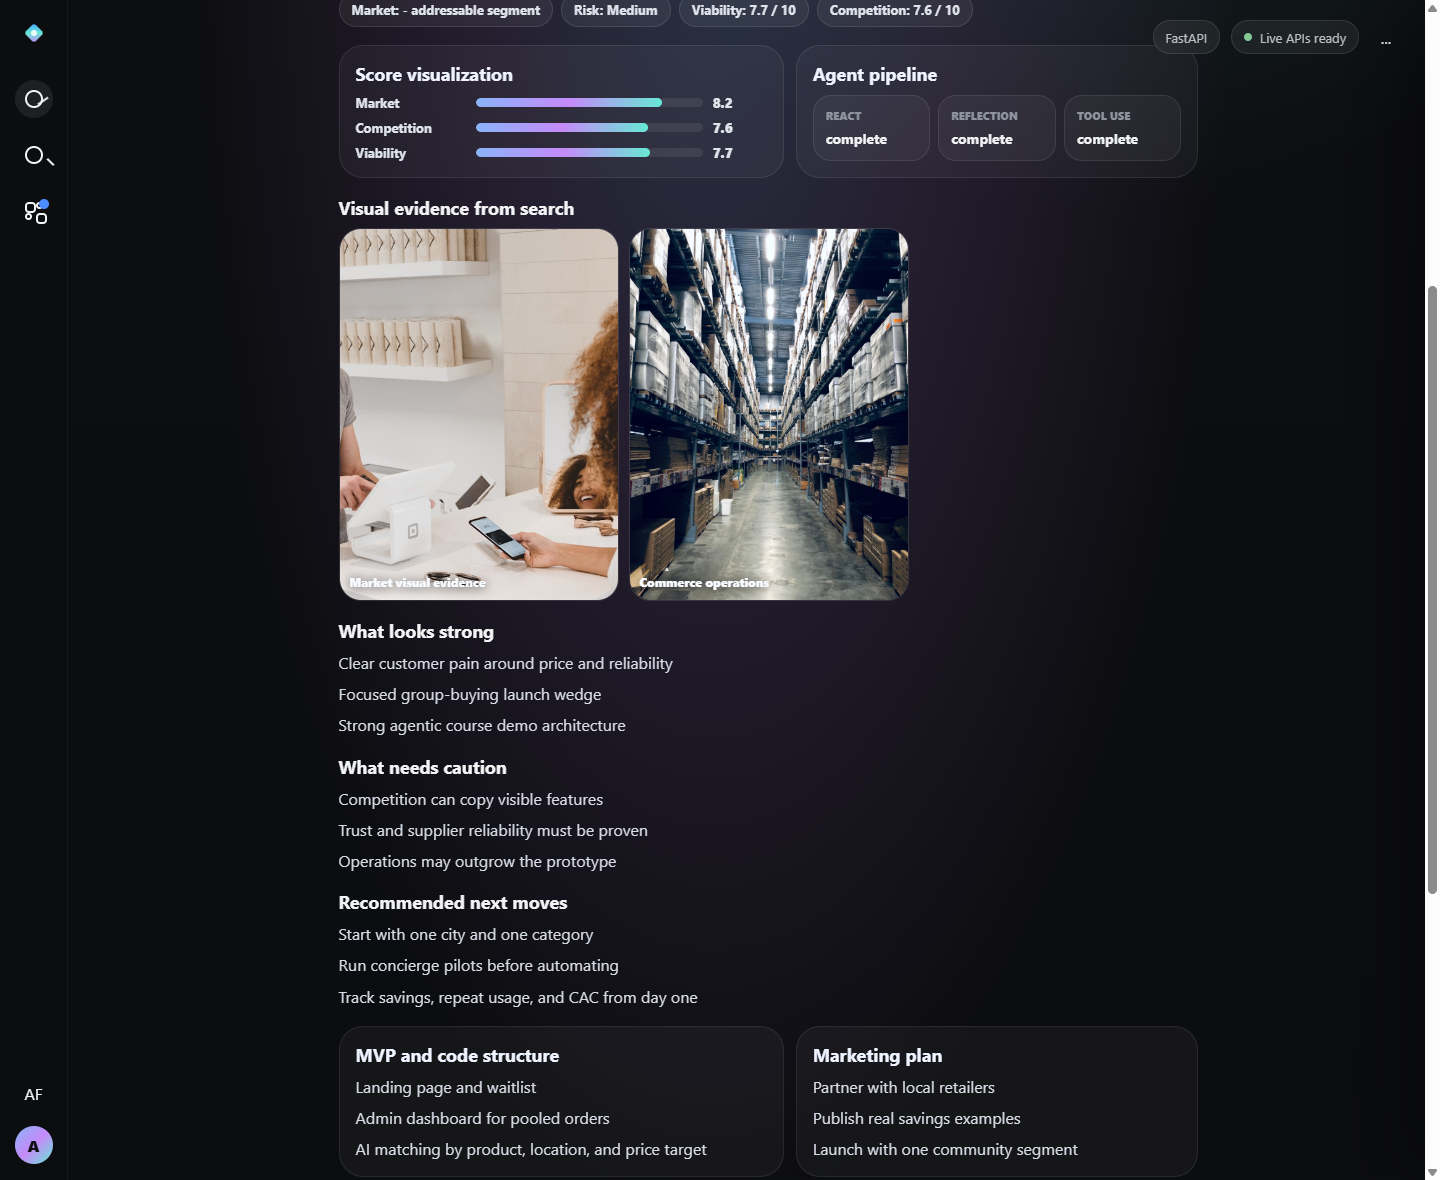
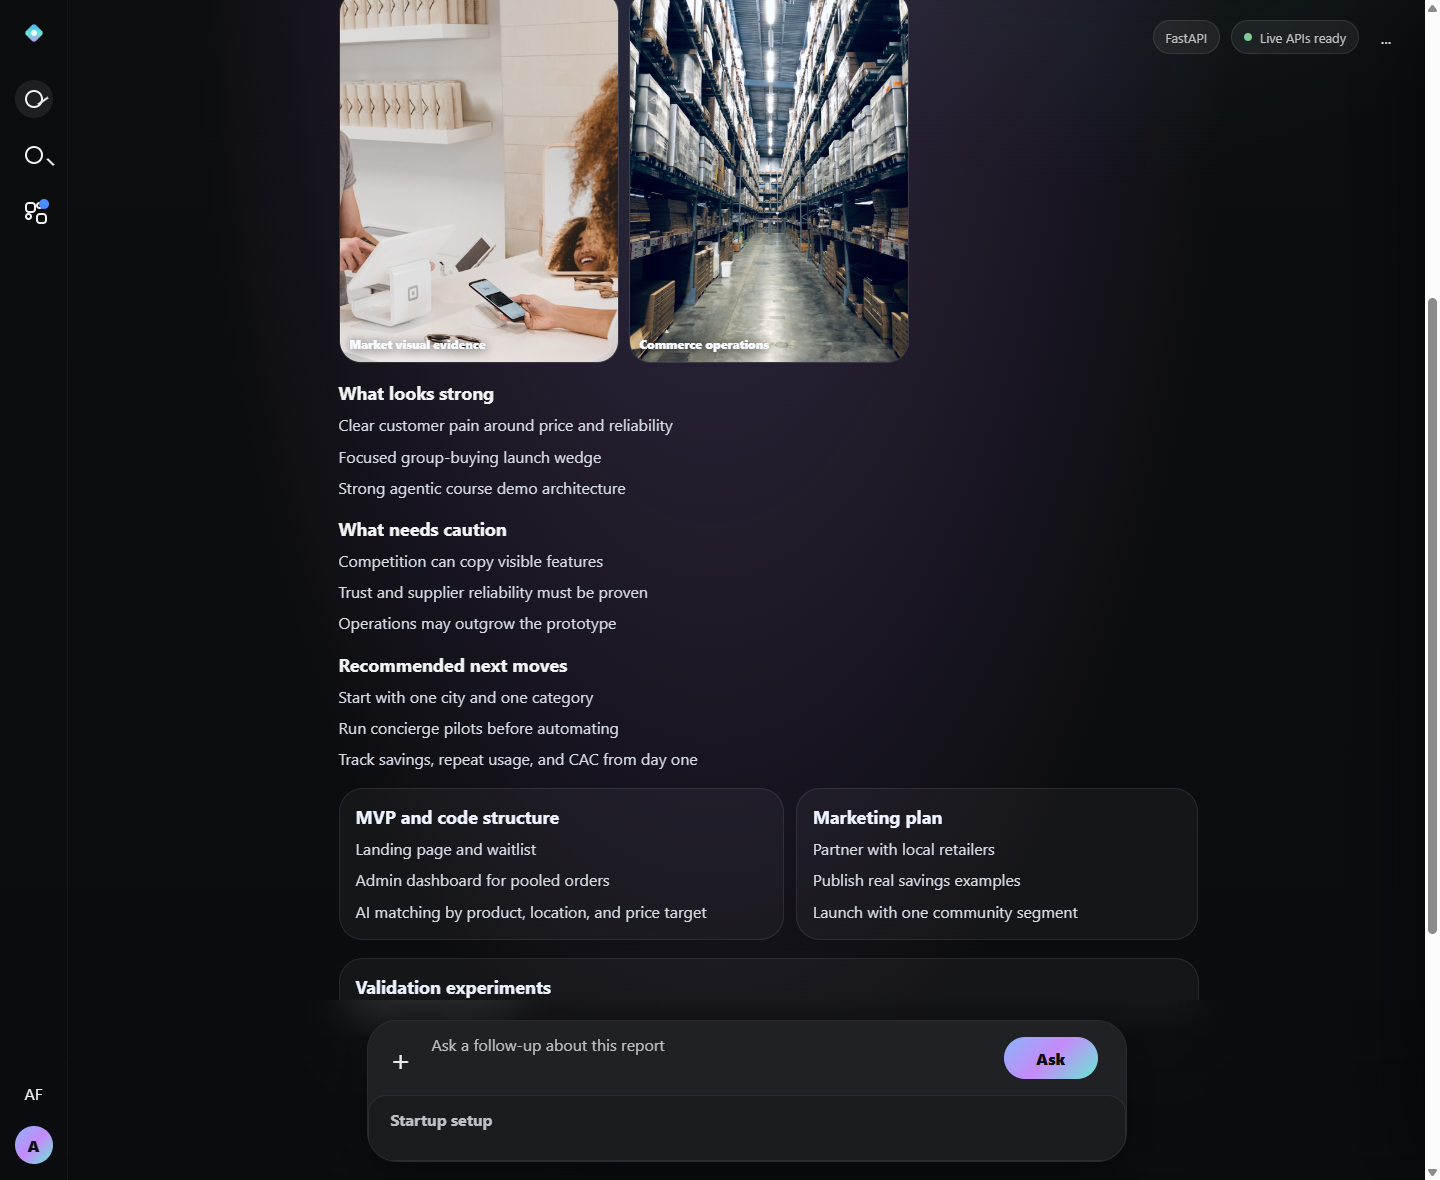
Move follow-up composer and use n8n credentials

diff --git a/frontend/index.html b/frontend/index.html
@@ -272,7 +272,17 @@
 
       .home.compact {
         min-height: auto;
-        padding: 76px 0 20px;
+        width: auto;
+        max-width: none;
+        margin: 0;
+        padding: 20px 20px 18px;
+        position: fixed;
+        left: 68px;
+        right: 0;
+        bottom: 0;
+        z-index: 18;
+        background: linear-gradient(180deg, rgba(11, 12, 15, 0), rgba(11, 12, 15, 0.86) 22%, rgba(11, 12, 15, 0.98));
+        backdrop-filter: blur(18px);
       }
 
       .center {
@@ -285,6 +295,8 @@
       }
 
       .home.compact .center {
+        width: min(860px, 100%);
+        margin: 0 auto;
         gap: 14px;
         transform: none;
       }
@@ -320,7 +332,7 @@
       }
 
       .home.compact .ask-card {
-        width: min(720px, 100%);
+        width: min(760px, 100%);
         border-radius: 30px;
         box-shadow: 0 18px 55px rgba(0, 0, 0, 0.35);
       }
@@ -507,7 +519,7 @@
       }
 
       .home.compact + .progress {
-        margin: 8px auto 24px;
+        margin: 78px auto 24px;
       }
 
       .progress.on {
@@ -541,6 +553,10 @@
         padding: 0 0 80px;
         display: grid;
         gap: 26px;
+      }
+
+      body.chat-active .thread {
+        padding-bottom: 220px;
       }
 
       .turn {
@@ -1312,6 +1328,11 @@
           padding: 40px 0 22px;
         }
 
+        .home.compact {
+          left: 0;
+          padding: 12px 12px 14px;
+        }
+
         .center {
           transform: none;
           gap: 24px;
@@ -1803,6 +1824,7 @@
 
       function compactComposer() {
         home.classList.add("compact");
+        document.body.classList.add("chat-active");
         advancedFields.open = false;
         ideaInput.value = "";
         ideaInput.placeholder = lastReportData ? "Ask a follow-up about this report" : "Ask another startup idea";
@@ -1810,6 +1832,7 @@
 
       function resetComposer() {
         home.classList.remove("compact");
+        document.body.classList.remove("chat-active");
         ideaInput.placeholder = "Ask Startup Validator";
       }
 

diff --git a/n8n/README.md b/n8n/README.md
@@ -7,13 +7,28 @@ This folder contains an importable n8n workflow that mirrors the FastAPI backend
 1. Open n8n.
 2. Choose **Import from file**.
 3. Select `n8n/startup-validator-workflow.json`.
-4. Add n8n variables in **Settings -> Variables**:
-   - `GROQ_API_KEY`
-   - `TAVILY_API_KEY`
-5. Activate the workflow and copy the production webhook URL.
+4. Create two **Header Auth** credentials:
+   - `Groq Header Auth`: `Name = Authorization`, `Value = Bearer <your Groq key>`
+   - `Tavily Header Auth`: `Name = Authorization`, `Value = Bearer <your Tavily key>`
+5. Open the HTTP Request nodes and attach credentials:
+   - `SWOT Generator` -> choose your Groq Header Auth credential.
+   - `Market Search Tool` -> choose your Tavily Header Auth credential.
+6. Activate the workflow and copy the production webhook URL.
 
-The workflow intentionally uses `$vars.GROQ_API_KEY` and `$vars.TAVILY_API_KEY`.
-Do not use `$env.*` in the HTTP nodes if your n8n instance shows `access to env vars denied`.
+This avoids `$env.*`, which can fail with `access to env vars denied` on some n8n setups.
+
+## Create Tavily Credential
+
+In n8n:
+
+1. Go to **Credentials -> Create credential**.
+2. Search for **Header Auth**.
+3. Set **Name** to `Authorization`.
+4. Set **Value** to `Bearer tvly-YOUR_KEY`.
+5. Save it as `Tavily Header Auth`.
+6. Open the `Market Search Tool` node and select this credential.
+
+Keep `Content-Type: application/json` as a normal header in the node. The Tavily key should not be pasted into the JSON body.
 
 ## Test The Webhook
 
@@ -94,5 +109,5 @@ That route posts to FastAPI first, then FastAPI forwards the request to n8n. It 
 
 - The workflow uses Groq for LLM generation and Tavily for market search.
 - The viability branch uses deterministic JavaScript calculations inside Code nodes.
-- If your n8n instance does not allow variables, replace the API key expressions with n8n HTTP credentials before activation.
+- The HTTP nodes use n8n Header Auth credentials so API keys stay out of the workflow JSON.
 - In the n8n editor, run each branch once and inspect the merged JSON before connecting the frontend.

diff --git a/README.md b/README.md
@@ -136,7 +136,7 @@ Import:
 n8n/startup-validator-workflow.json
 ```
 
-Then configure `GROQ_API_KEY` and `TAVILY_API_KEY` as n8n variables. See [n8n/README.md](n8n/README.md).
+Then attach Groq and Tavily Header Auth credentials in n8n. See [n8n/README.md](n8n/README.md).
 
 The frontend can point to n8n by changing the script config in `frontend/index.html`:
 